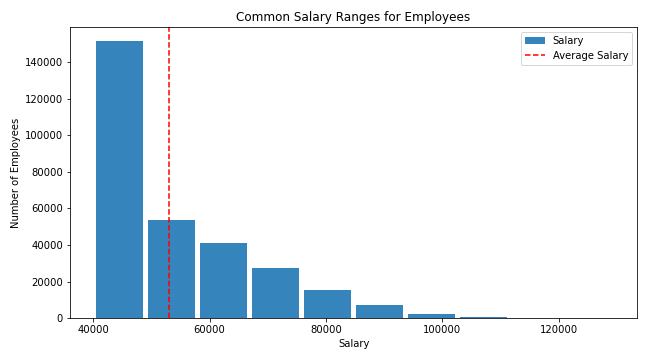
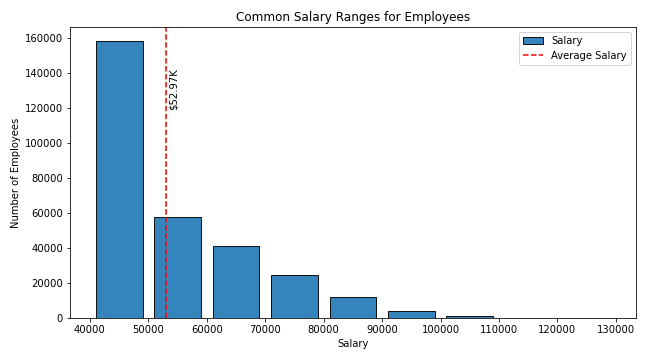
Updated READEME file and SQL Bonus file.

diff --git a/README.md b/README.md
@@ -1,4 +1,4 @@
-# sql-challenge - Employee Database
+# sql-challenge: Employee Database
 
 ## Background
 
@@ -20,7 +20,7 @@ This assignment is divided into three parts: data modeling, data engineering, an
 
 #### Data Modeling
 
-Inspect the CSVs and sketch out an ERD of the tables. Used QuickDBD to create the ERD diagram for the `Employee database` with six tables. 
+Inspected the CSVs and sketch out an ERD of the tables. Used QuickDBD to create the ERD diagram for the `Employee database` with six tables. 
 ![EmployeeDB_ERD](EmployeeSQL/EmployeeDB_ERD.png)
 
 #### Data Engineering
@@ -33,25 +33,26 @@ Inspect the CSVs and sketch out an ERD of the tables. Used QuickDBD to create th
 
 * Imported each CSV file into the corresponding SQL table. 
 
-  #### Data Analysis
+#### Data Analysis
 
 After ctreating the database, performed the below steps:
 
 1. List the following details of each employee: employee number, last name, first name, sex, and salary.
-
+![sql_query_1](EmployeeSQL/Images/sql_query_1.png)
 2. List first name, last name, and hire date for employees who were hired in 1986.
-
+![sql_query_2](EmployeeSQL/Images/sql_query_2.png)
 3. List the manager of each department with the following information: department number, department name, the manager's employee number, last name, first name.
-
+![sql_query_3](EmployeeSQL/Images/sql_query_3.png)
 4. List the department of each employee with the following information: employee number, last name, first name, and department name.
-
+![sql_query_4](EmployeeSQL/Images/sql_query_4.png)
 5. List first name, last name, and sex for employees whose first name is "Hercules" and last names begin with "B."
-
+![sql_query_5](EmployeeSQL/Images/sql_query_5.png)
 6. List all employees in the Sales department, including their employee number, last name, first name, and department name.
-
+![sql_query_6](EmployeeSQL/Images/sql_query_6.png)
 7. List all employees in the Sales and Development departments, including their employee number, last name, first name, and department name.
-
+![sql_query_7](EmployeeSQL/Images/sql_query_7.png)
 8. List the frequency count of employee last names (i.e., how many employees share each last name) in descending order.
+![sql_query_8](EmployeeSQL/Images/sql_query_8.png)
 
 ## Bonus
 
@@ -59,11 +60,11 @@ Created a visualization of the data by following these steps:
 
 1. Imported the SQL database into Pandas.  
 
-    * Created .gitignore file to exclude config.py in uploading to GitHub repository.
+    * Created `.gitignore` file to exclude `config.py` in uploading to GitHub repository.
     
 2. Created a histogram to visualize the most common salary ranges for employees.
 
-![Salary_histogram](EmployeeSQL/Images/salary_histogram2.png)
+![Salary_histogram](EmployeeSQL/Images/salary_histogram.png)
 
 3. Created a bar chart of average salary by title.
 
@@ -71,14 +72,16 @@ Created a visualization of the data by following these steps:
 
 ## Deliverables
 
-* Created an image file for the ERD.
+Below listed four files are available in `sql-challenge\EmployeeSQL` folder.
 
-* Created a `.sql` file for table schemata.
+* Created an image file `EmployeeDB_ERD.png` for ERD  
 
-* Created a `.sql` file for the queries.
+* Created a `EmployeeDB.sql` file for table schemata.
+   
+* Created a `Employee_Queries.sql`file for the queries.
+ 
+* Created a Jupyter notebook called `SQL_BONUS.jpynb` for the bonus analysis.
+ 
+**Created and uploaded a repository with the above files to GitHub and posted a link on BootCamp Spot.
 
-* Created a Jupyter notebook of the bonus analysis.
-
-* Created and uploaded a repository with the above files to GitHub and posted a link on BootCamp Spot.
-
-* Ensured that the repository has regular commits and a thorough README.md file
+**Ensured that the repository has regular commits and a thorough README.md file
